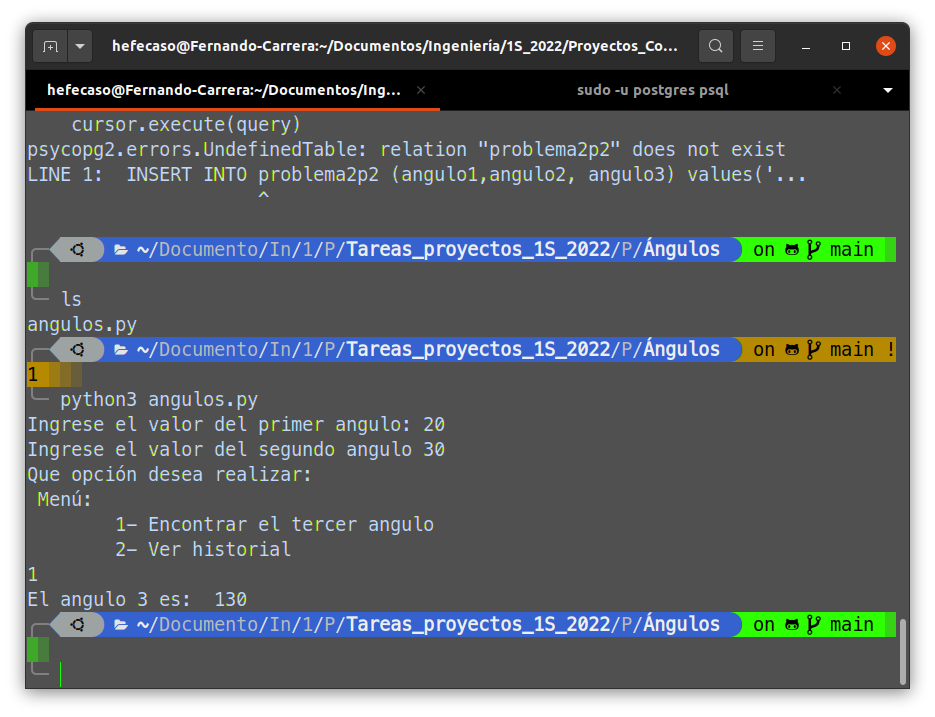
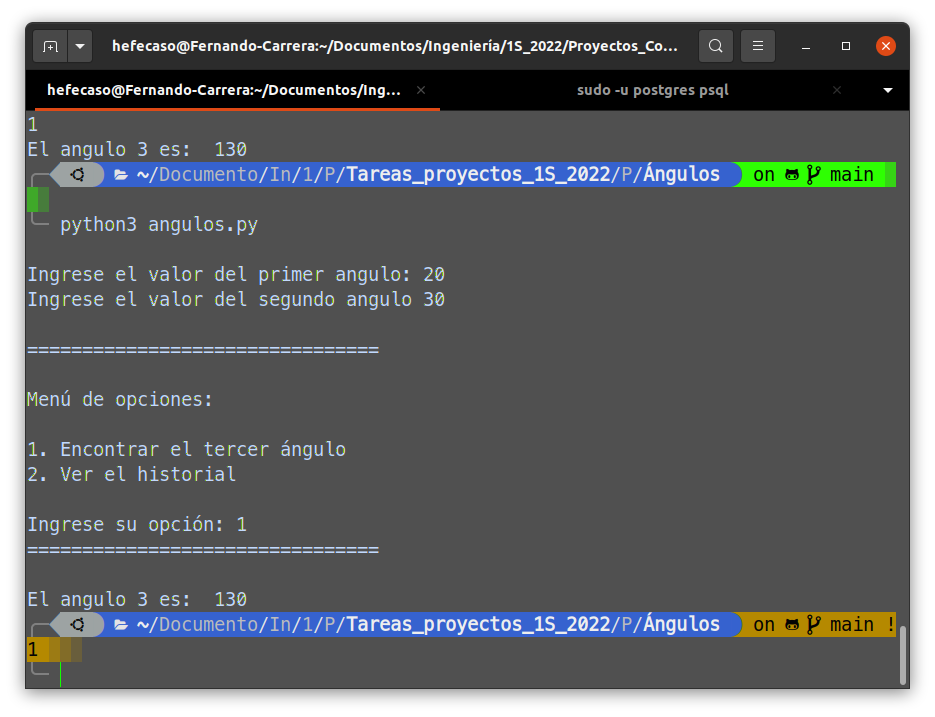
main

diff --git a/Parcial_1/Números/Números.py b/Parcial_1/Números/Números.py
@@ -1,0 +1,56 @@
+import psycopg2
+
+connection =  psycopg2.connect(
+    host="localhost",
+    user="postgres",
+    password="123456",
+    database="unidades",
+    port="5432"
+)
+
+
+print("10. Mostrar la unidad, la decena y centena. ")
+
+while True:
+    try:
+        num = int(input("Ingrese un numero comprendido entre 1 y 999: "))
+
+        print("\n================================")
+        print("\nMenú de opciones: ")
+        print("\n1. Mostrar las centenas, decenas, unidades")
+        print("2. Ver el historial")
+
+        op = input("\nIngrese su opción: ")
+        print("================================\n")
+
+    except:
+        print ("ERROR")
+        op = '?'
+
+    if op == '1':
+        cen = (num-(num%100))/100
+        res = num%100
+        dec = (res-(res%10))/10
+        uni = res%10
+        print("Centena: ",int(cen))
+        print("Decena: ",int(dec))
+        print("Unidad:",int(uni))
+        connection.autocommit = True
+        def insertardatos(centena,decena,unidad):
+            cursor = connection.cursor()
+            query = f""" INSERT INTO unidades (centena,decena,unidad) values('{centena}','{decena}','{unidad}')"""
+            cursor.execute(query)
+            cursor.close()
+        insertardatos(cen,dec,uni)
+
+        break
+    elif op == '2':
+
+        cursor = connection.cursor()
+        SQL = 'select * from unidades;'
+        cursor.execute(SQL)
+        valores = cursor.fetchall()
+        print(valores)
+        break
+    else:
+        print("""has ingresado una opción incorrecta""")

diff --git a/Parcial_1/Ángulos/angulos.py b/Parcial_1/Ángulos/angulos.py
@@ -12,10 +12,14 @@ while True:
     try:
         a1 = int(input("\nIngrese el valor del primer angulo: "))
         a2 = int(input("Ingrese el valor del segundo angulo "))
-        print("\nQue opción desea realizar: ")
-        op = str(input(""" Menú:
-        1- Encontrar el tercer angulo
-        2- Ver historial \n"""))
+
+        print("\n================================")
+        print("\nMenú de opciones: ")
+        print("\n1. Encontrar el tercer ángulo")
+        print("2. Ver el historial")
+
+        op = input("\nIngrese su opción: ")
+        print("================================\n")
     except:
         print ("ERROR")
         op = '?'
@@ -34,7 +38,7 @@ while True:
     elif op == '2':
 
         cursor = connection.cursor()
-        SQL = 'select * from problema2p2;'
+        SQL = 'select * from angulos;'
         cursor.execute(SQL)
         valores = cursor.fetchall()
         print(valores)
